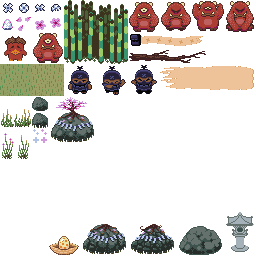
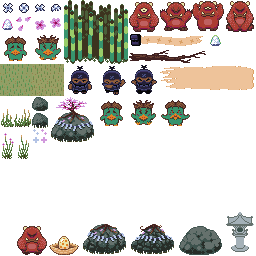
ajout des kappas

diff --git a/ennemies.py b/ennemies.py
@@ -1,14 +1,19 @@
 import pygame, random
 from pygame import mixer
 from sprite_map import tileset
+from conf import GAME_HEIGHT,GAME_WIDTH
 
 mixer.init()
-outch_sound = pygame.mixer.Sound("assets/sounds2/AnyConv.com__sm64_whomp.ogg")
+ogre_hit_sound = pygame.mixer.Sound("assets/sounds2/AnyConv.com__sm64_whomp.ogg")
+kappa_hit_sound = pygame.mixer.Sound("assets/sounds2/kappa_kwak.ogg")
+kappa_attack_sound = pygame.mixer.Sound("assets/sounds2/kappa_attack2.ogg")
 death_sound = pygame.mixer.Sound("assets/sounds2/AnyConv.com__ogre_destroyy.ogg")
 ogre_slam = pygame.mixer.Sound("assets/sounds2/AnyConv.com__slam.ogg")
 ogre_slam.set_volume(0.2)
-outch_sound.set_volume(0.3)
+kappa_hit_sound.set_volume(0.4)
+ogre_hit_sound.set_volume(0.3)
 death_sound.set_volume(0.4)
+kappa_attack_sound.set_volume(0.4)
 
 # cette fonction renvoie un vecteur type (a,b) ou a et b ne peuvent avoir que les valeurs -1, 0 ou 1.
 def get_target_direction(self_rect:pygame.Rect,target_rect:pygame.Rect):
@@ -26,19 +31,79 @@ class Kappa:
     def __init__(self, pos):
         self.pos = [x for x in pos]
         self.speed = [0,0]
-        self.rect = pygame.Rect(-100, -100, 15, 12)
+        self.rect = pygame.Rect(-100, -100, 14, 12)
+        self.attack_rect = pygame.Rect(0,0,48,48)
         self.rect.center = self.pos
         self.sprite = tileset['kappa']
         self.OFFSET_X = 8
-        self.OFFSET_Y = 16
+        self.OFFSET_Y = 15
         self.sprite_pos = ( self.rect.left - self.OFFSET_X, self.rect.top - self.OFFSET_Y )
         self.solid = True
+        self.hurt_timer = 0
+        self.attack_timer = 0
+        self.waddle_timer = random.choice(range(60))
+        self.state = 'normal'
+        self.speed = [
+            -1 + random.choice(range(21))/10,
+            -1 + random.choice(range(21))/10
+        ]
+        self.MAX_SPEED = 1
 
     def update(self):
         for i in range(2): self.pos[i] += self.speed[i]
         self.rect.center = (self.pos[0], self.pos[1])
+        self.attack_rect.center = self.rect.center
         self.sprite_pos = ( self.rect.left - self.OFFSET_X, self.rect.top - self.OFFSET_Y )
-    
+
+        if self.state == 'attacking':
+            self.attack_timer -= 1
+            if self.attack_timer == 0 : 
+                self.speed = [x/4 for x in self.speed]
+                self.state = 'normal'
+                self.sprite = tileset['kappa']
+                self.waddle()
+
+        self.waddle_timer -= 1
+        if self.waddle_timer == 0 : self.waddle()
+
+        if self.hurt_timer > 0 :
+            self.hurt_timer -= 1
+            if self.hurt_timer %10==0 : self.pos[0] -= 4
+            elif self.hurt_timer %5==0: self.pos[0] += 4
+            # destroy
+            if self.state == 'dying' and self.hurt_timer == 0 : self.state = 'removed'
+            if self.state == 'dying' and self.hurt_timer %2==0:
+                self.sprite[3] -= 1
+
+    def waddle(self):
+        self.waddle_timer = random.choice(range(75))
+        for i in (0,1):
+            if not abs(self.speed[i]) > self.MAX_SPEED : self.speed[i] += -0.3 + random.choice(range(7))/10
+
+    def kill(self):
+        self.hurt_timer = 48
+        self.speed = [0,0]
+        self.state = 'dying'
+        self.sprite = tileset['kappa_hit']
+        pygame.mixer.Sound.play(kappa_hit_sound)
+        self.sprite = [x for x in self.sprite]
+        pygame.event.post(pygame.event.Event(SCORE,{'value':1, 'style': 'score'}))
+        # pygame.mixer.Sound.play(death_sound)
+
+    def warp(self):
+        if self.rect.center[0] > GAME_WIDTH: self.pos[0] = 0
+        if self.rect.center[0] < 0: self.pos[0] = GAME_WIDTH
+        if self.rect.center[1] < 0: self.pos[1] = GAME_HEIGHT
+        if self.rect.center[1] > GAME_HEIGHT: self.pos[1] = 0
+
+    def attack(self, target):
+        self.attack_timer = 30
+        dir = get_target_direction(self.rect,target.rect)
+        self.state = 'attacking'
+        self.speed = [x*2 for x in dir]
+        self.sprite = tileset['kappa_flex']
+        pygame.mixer.Sound.play(kappa_attack_sound)
+
 class Ogre:
     def __init__(self, pos):
         self.pos = [x for x in pos]
@@ -129,7 +194,7 @@ class Ogre:
         self.sprite = tileset['ogre_hit']
         self.life -= 1
         pygame.event.post(pygame.event.Event(SCORE,{'value': 4-self.life, 'style': 'score'}))
-        pygame.mixer.Sound.play(outch_sound)
+        pygame.mixer.Sound.play(ogre_hit_sound)
         if self.life < 1 :
             self.wiggle = 4
             self.speed = [0,0]
@@ -138,4 +203,6 @@ class Ogre:
             self.destroy = True
             pygame.event.post(pygame.event.Event(SCORE,{'value': 1, 'style': 'multi'}))
             pygame.mixer.Sound.play(death_sound)
-            
+    
+    def collide(self, target):
+        pass

diff --git a/main.py b/main.py
@@ -52,7 +52,9 @@ class Game:
         #actors
         self.spawn_locations = [(96,112),(380,212)]
         self.object_list.append(ennemies.Ogre(random.choice(self.spawn_locations)))
-        self.spawn_timer = 250 + random.choice(range(500))
+        self.object_list.append(ennemies.Kappa(random.choice(self.spawn_locations)))
+        self.kappa_spawn_timer = 200 + random.choice(range(500))
+        self.ogre_spawn_timer = 300 + random.choice(range(500))
         self.object_list.append(player)
 
     def spawn_bamboos(self):
@@ -97,7 +99,7 @@ async def main() :
     game_over_bg.set_alpha(1)
 
     ## SOUNDS
-    menu_confirm = pygame.mixer.Sound("assets/sounds2/dash2.ogg")
+    menu_confirm = pygame.mixer.Sound("assets/sounds2/letsgo.ogg")
     menu_confirm.set_volume(0.4)
 
     ## MUSICS
@@ -133,7 +135,7 @@ async def main() :
     ## Generating menu
     is_in_menu = True
     is_in_game_over = False
-    main_menu = menu.Menu(True)
+    main_menu = menu.Menu(False)
 
     ## Launch Music
     main_menu.play_music(menu_music)
@@ -262,12 +264,33 @@ async def main() :
                 ogre.update()
                 if ogre.state == 'removed' : game.object_list.remove(ogre)
 
-            # spawn
-            if len(ogres) == 0 : game.spawn_timer -= 10
-            else : game.spawn_timer -= 1
-            if len(ogres) < 5 and game.spawn_timer < 0 :
+            # spawn Ogres
+            if len(ogres) == 0 : game.ogre_spawn_timer -= 10
+            else : game.ogre_spawn_timer -= 1
+            if len(ogres) < 5 and game.ogre_spawn_timer < 0 :
                 game.object_list.append(ennemies.Ogre(random.choice(game.spawn_locations)))
-                game.spawn_timer = 750 - (game.score*3) + random.choice(range(500))
+                game.ogre_spawn_timer = 1000 - (game.score*2) + random.choice(range(500))
+
+            # kappas
+            kappas = [obj for obj in game.object_list if type(obj) == ennemies.Kappa]
+            for kappa in kappas:
+
+                if kappa.attack_rect.colliderect(hero.rect) and kappa.state == 'normal': 
+                    kappa.attack(hero)
+                if kappa.rect.colliderect(hero.rect) and kappa.state == 'attacking':
+                    hero.damage(kappa.speed)
+                    kappa.speed = [0,0]
+
+                kappa.update()
+                kappa.warp()
+                if kappa.state == 'removed' : game.object_list.remove(kappa)
+
+            # spawn Kappas
+            if len(kappas) == 0 : game.kappa_spawn_timer -= 10
+            else : game.kappa_spawn_timer -= 1
+            if len(kappas) < 6 and game.kappa_spawn_timer < 0 :
+                game.object_list.append(ennemies.Kappa(random.choice(game.spawn_locations)))
+                game.kappa_spawn_timer = 750 - (game.score*3) + random.choice(range(500))
 
             #pickups
             for pickup in [obj for obj in game.object_list if type(obj) == objects.Pickup]:

diff --git a/objects.py b/objects.py
@@ -14,7 +14,7 @@ pickup_sound = pygame.mixer.Sound("assets/sounds2/AnyConv.com__step.ogg")
 catch_sound.set_volume(0.4)
 pickup_sound.set_volume(0.3)
 
-SHURIKEN_DROP = pygame.USEREVENT + 1
+ITEM_DROP = pygame.USEREVENT + 1
 SCORE = pygame.USEREVENT + 2
 
 
@@ -76,6 +76,12 @@ class Shuriken:
             target.damage(self.speed)
             self.bounce(target)
 
+        if type(target) == ennemies.Kappa and target.state != 'dying':
+            target.kill()
+            if random.choice(range(8)) == 0 :
+                pygame.event.post(pygame.event.Event(ITEM_DROP,{'pos': target.pos, 'style': 'rice'}))
+            self.bounce(target)
+
         if type(target) == structures.Shrine:
             self.bounce(target)
 
@@ -89,7 +95,7 @@ class Shuriken:
         self.speed[1] = BOUNCE_Y_SPEED
 
     def become_pickup(self):
-        pygame.event.post(pygame.event.Event(SHURIKEN_DROP,{'pos': self.pos, 'style': 'shuriken'}))
+        pygame.event.post(pygame.event.Event(ITEM_DROP,{'pos': self.pos, 'style': 'shuriken'}))
         self.state = 'removed'
 
 class Pickup:
@@ -100,6 +106,8 @@ class Pickup:
         self.style = style
         if self.style == 'shuriken':
             self.sprite = random.choice([tileset['shuriken_sol_1'],tileset['shuriken_sol_2']])
+        if self.style == 'rice':
+            self.sprite = tileset['rice_nice']
         self.solid = False
         self.sprite_pos = self.pos
         self.removable = False
@@ -108,6 +116,9 @@ class Pickup:
         if self.style == 'shuriken':
             pygame.mixer.Sound.play(pickup_sound)
             if hero.ammo < 5 : hero.ammo += 1
+        if self.style == 'rice':
+            pygame.mixer.Sound.play(pickup_sound)
+            if hero.health < 4 : hero.health += 1
         self.removable = True
 
 class OgreSlam:

diff --git a/sprite_map.py b/sprite_map.py
@@ -2,7 +2,9 @@ tileset = {
     'ninja': (64,64,32,32),
     'ninja_dash': (96,64,32,32),
     'ninja_hurt': (128,64,32,32),
-    'kappa': (0,32,32,32),
+    'kappa': (96,96,32,32),
+    'kappa_hit': (128,96,32,32),
+    'kappa_flex': (160,96,32,32),
     'ogre': (128,0,32,32),
     'ogre_hit': (160,0,32,32),
     'ogre_charge': (192,0,32,32),
@@ -29,7 +31,9 @@ tileset = {
     'rock_onground': (32,112,16,16),
     'shrine': (48,96,48,48),
     'slam1': (32,144,32,16),
-    'slam2': (64,144,32,16)
+    'slam2': (64,144,32,16),
+    'rice_nice': (0,16,16,16),
+    'rice_bad': (208,32,16,16)
 }
 
 menu_texts = {
